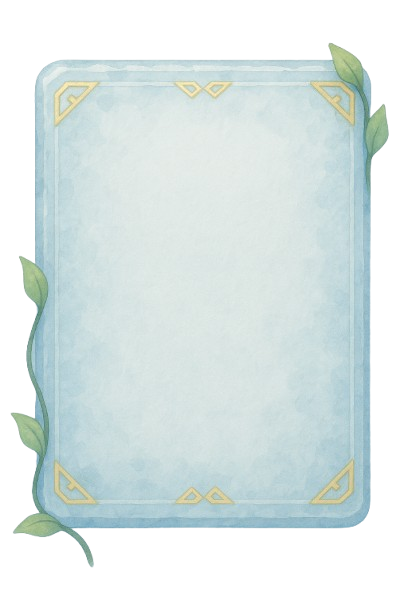
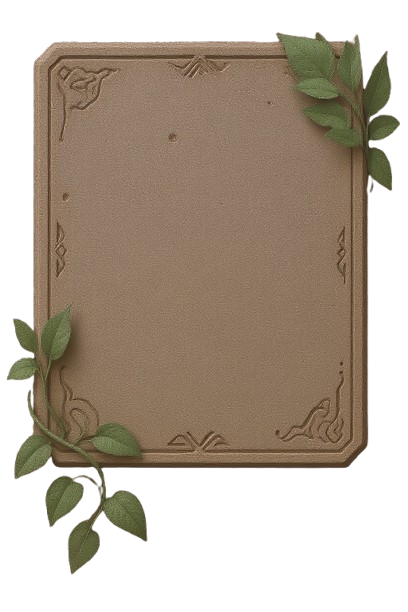
C:/Program Files/Git/review 수정중 저장

diff --git a/front/src/pages/Review.jsx b/front/src/pages/Review.jsx
@@ -418,7 +418,7 @@ const Review = () => {
 
   return (
     <div
-      className="w-full h-full flex flex-col"
+      className="w-full h-full flex flex-col relative"
       style={{ fontFamily: "Jua, sans-serif" }}
     >
       <div className="flex-1 p-6 bg-gradient-to-br from-[#f9f6ef]/30 to-[#f3e7c4]/30">
@@ -455,24 +455,23 @@ const Review = () => {
                 </p>
               </div>
               {/* 우상단 라운드 진행 버튼 */}
-              {selectedPeriod === currentPeriod &&
-                (isLastRound ? (
-                  <button
-                    onClick={handleShowFinalResult}
-                    className="bg-gradient-to-r from-[#3b7c2b] to-[#2d5a21] hover:from-[#2d5a21] hover:to-[#1e3d16] text-white px-6 py-3 rounded-xl transition-all duration-300 font-bold text-base shadow-lg border-2 border-[#4ade80]"
-                    style={{ fontFamily: "Jua, sans-serif" }}
-                  >
-                    최종 결과 확인
-                  </button>
-                ) : (
-                  <button
-                    onClick={handleNextRound}
-                    className="bg-gradient-to-r from-[#3b7c2b] to-[#2d5a21] hover:from-[#2d5a21] hover:to-[#1e3d16] text-white px-6 py-3 rounded-xl transition-all duration-300 font-bold text-base shadow-lg border-2 border-[#4ade80]"
-                    style={{ fontFamily: "Jua, sans-serif" }}
-                  >
-                    다음 라운드
-                  </button>
-                ))}
+              {selectedPeriod === currentPeriod && (
+                <button
+                  className={`justify-self-end ${
+                    isLastRound
+                      ? "bg-[#bfa76a] hover:bg-[#a67c3c]"
+                      : "bg-[#7c5c2b] hover:bg-[#a67c3c]"
+                  } text-white font-normal py-3 px-8 rounded-full text-lg shadow-lg transition-all duration-200 border-2 border-[#e6d3a3]`}
+                  style={{
+                    fontFamily: "Jua, sans-serif",
+                  }}
+                  onClick={
+                    isLastRound ? handleShowFinalResult : handleNextRound
+                  }
+                >
+                  {isLastRound ? "결과 보기" : "결과 확인"}
+                </button>
+              )}
             </div>
           </div>
 
@@ -638,7 +637,7 @@ const Review = () => {
           </h3>
 
           {/* LLM 분석 결과 */}
-          {tradingHistory.length > 0 && (
+          {tradingHistory.length > 0 ? (
             <div className="mb-6 p-4 bg-gradient-to-br from-[#f9f6ef] to-[#f3e7c4] rounded-lg border border-[#e6d3a3]">
               <h4
                 className="text-lg font-bold text-[#7c5c2b] mb-3 flex items-center"
@@ -774,6 +773,31 @@ const Review = () => {
                   </p>
                 </div>
               )}
+            </div>
+          ) : (
+            <div className="mb-6 p-6 bg-gradient-to-br from-[#f9f6ef] to-[#f3e7c4] rounded-lg border border-[#e6d3a3] text-center">
+              <h4
+                className="text-lg font-bold text-[#7c5c2b] mb-4"
+                style={{ fontFamily: "Jua, sans-serif" }}
+              >
+                용사의 조언
+              </h4>
+              <div className="bg-gradient-to-br from-[#fef3c7] to-[#fde68a] p-4 rounded-lg border border-[#f59e0b]">
+                <p
+                  className="text-[#92400e] leading-relaxed text-lg"
+                  style={{ fontFamily: "Jua, sans-serif" }}
+                >
+                  허허, {formatPeriod(selectedPeriod)} 라운드에서는 거래 기록이
+                  없구나!
+                </p>
+                <p
+                  className="text-[#92400e] leading-relaxed mt-2"
+                  style={{ fontFamily: "Jua, sans-serif" }}
+                >
+                  다음 라운드에서는 용감하게 투자에 도전해보시게. 과인의 조언을
+                  참고하여 현명한 투자 결정을 내려보시게!
+                </p>
+              </div>
             </div>
           )}
         </div>

diff --git a/front/src/pages/GameIntro.jsx b/front/src/pages/GameIntro.jsx
@@ -93,8 +93,14 @@ const GameIntro = () => {
 
       {/* 환영 메시지 */}
       <div className="text-center mb-4">
-        <div className="inline-block bg-white bg-opacity-90 border-4 border-[#7c5c2b] rounded-2xl p-6 shadow-xl max-w-2xl mx-auto">
-          <h2 className="text-xl md:text-2xl font-bold text-[#7c5c2b] mb-4">
+        <div
+          className="inline-block bg-white bg-opacity-90 border-4 border-[#7c5c2b] rounded-2xl p-6 shadow-xl max-w-2xl mx-auto"
+          style={{ fontFamily: "Jua, sans-serif" }}
+        >
+          <h2
+            className="text-xl md:text-2xl font-bold text-[#7c5c2b] mb-4"
+            style={{ fontFamily: "Jua, sans-serif" }}
+          >
             {user ? (
               <>
                 <span className="text-[#1e3a8a]">{user.username}</span> 용사여,
@@ -105,7 +111,10 @@ const GameIntro = () => {
               "용사여, 투자 모험의 세계에 온 것을 환영하네!"
             )}
           </h2>
-          <p className="text-lg text-[#7c5c2b] leading-relaxed">
+          <p
+            className="text-lg text-[#7c5c2b] leading-relaxed"
+            style={{ fontFamily: "Jua, sans-serif" }}
+          >
             과인과 함께 현명한 투자자가 되어보지 않겠는가?
             <br />
             이곳은 투자 영웅이 탄생하는 곳이라네!
@@ -127,7 +136,7 @@ const GameIntro = () => {
         </button>
 
         <button
-          className="bg-[#1e3a8a] hover:bg-[#1e40af] text-white font-normal py-4 px-12 rounded-full text-xl shadow-lg transition-all duration-200 border-4 border-[#3b82f6] flex items-center space-x-3 group"
+          className="bg-[#bfa76a] hover:bg-[#a67c3c] text-white font-normal py-4 px-12 rounded-full text-xl shadow-lg transition-all duration-200 border-4 border-[#e6d3a3] flex items-center space-x-3 group"
           onClick={() =>
             addGuideMessage(
               "허허, 게임 설명을 궁금해하시는구나!\n\n이 게임은 2020년부터 2024년까지의 실제 주식 데이터를 기반으로 한 투자 시뮬레이션 게임이라네.\n\n분기별로 나뉜 라운드를 진행하며, 각 라운드마다 새로운 뉴스와 시장 상황이 제공되네.\n\n뉴스를 분석하고 전략적으로 포트폴리오를 구성하여 다른 플레이어들과 경쟁하며 투자 실력을 향상시켜보시게!\n\n과인의 조언도 참고하시면 좋겠네!"
